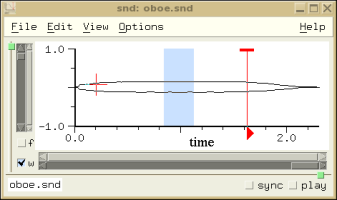
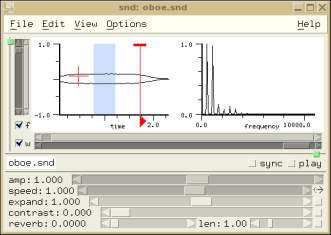
bugs

diff --git a/snd.html b/snd.html
@@ -327,6 +327,7 @@ is included in the <a href="http://ccrma.stanford.edu/planetccrma/software/">Pla
 <table width="100%" border=0><tr><td bgcolor="beige" align="center" valign="middle"><h2><A NAME="gettingstarted">Getting Started</a></h2></td></tr></table>
 
 <p>Once compiled and loaded (see README.Snd for instructions), start Snd:</p>
+<img src="intro2.png" alt="basic snd display" align=right>
 <pre>
   snd some.snd
 </pre>
@@ -344,7 +345,8 @@ Click the "w" button (unset it) and
 the time domain waveform goes away.  Click "play" to
 play the file.  "sync" is more complicated -- it is used
 to group sounds together for simultaneous editing.</p>
-
+<br>
+<img src="intro1.png" alt="basic snd display" align=right>
 <p>Now return to the time domain form (click "w" and "f"),
 and click in the graph itself.  A red cursor (a big "+")
 appears at that point.  The cursor is just like an
@@ -367,6 +369,7 @@ to life.  Just for laughs, delete the selection (via the Edit menu), then click 
 button to get the popup menu, and try Undo followed
 by Redo.</p>
 
+<img src="intro.png" alt="basic snd display" align=right>
 <p>Next type C-m.  This places a
 mark at the current cursor location.  C-a goes
 to the start of the window; C-j jumps forward to the
@@ -386,10 +389,12 @@ while playing the sound.  For the more complex
 cases, the button on the right side turns the
 option on or off.
 </p>
+
 <p>
 But this is all standard stuff; even the
 various dialogs scattered around the menus will present
-no surprises.  The GL spectrograph is somewhat unusual,
+no surprises.  
+The GL spectrograph is somewhat unusual,
 and I like the paned window approach to multichannel sounds ("<i>de gustibus...</i>").
 But it is primarily the embedded extension language
 (Guile, Ruby, Forth, or Gauche) that 
@@ -408,6 +413,7 @@ wrote a set of files that implement dozens of the effects and
 editing operations built into other editors.  Just load the
 files that look interesting, and start clicking widgets.
 </p>
+<img src="intro3.png" alt="basic snd display" align=right>
 
 <p>Manipulating sounds in a programming environment
 is most enjoyable if you can edit and retry expressions
